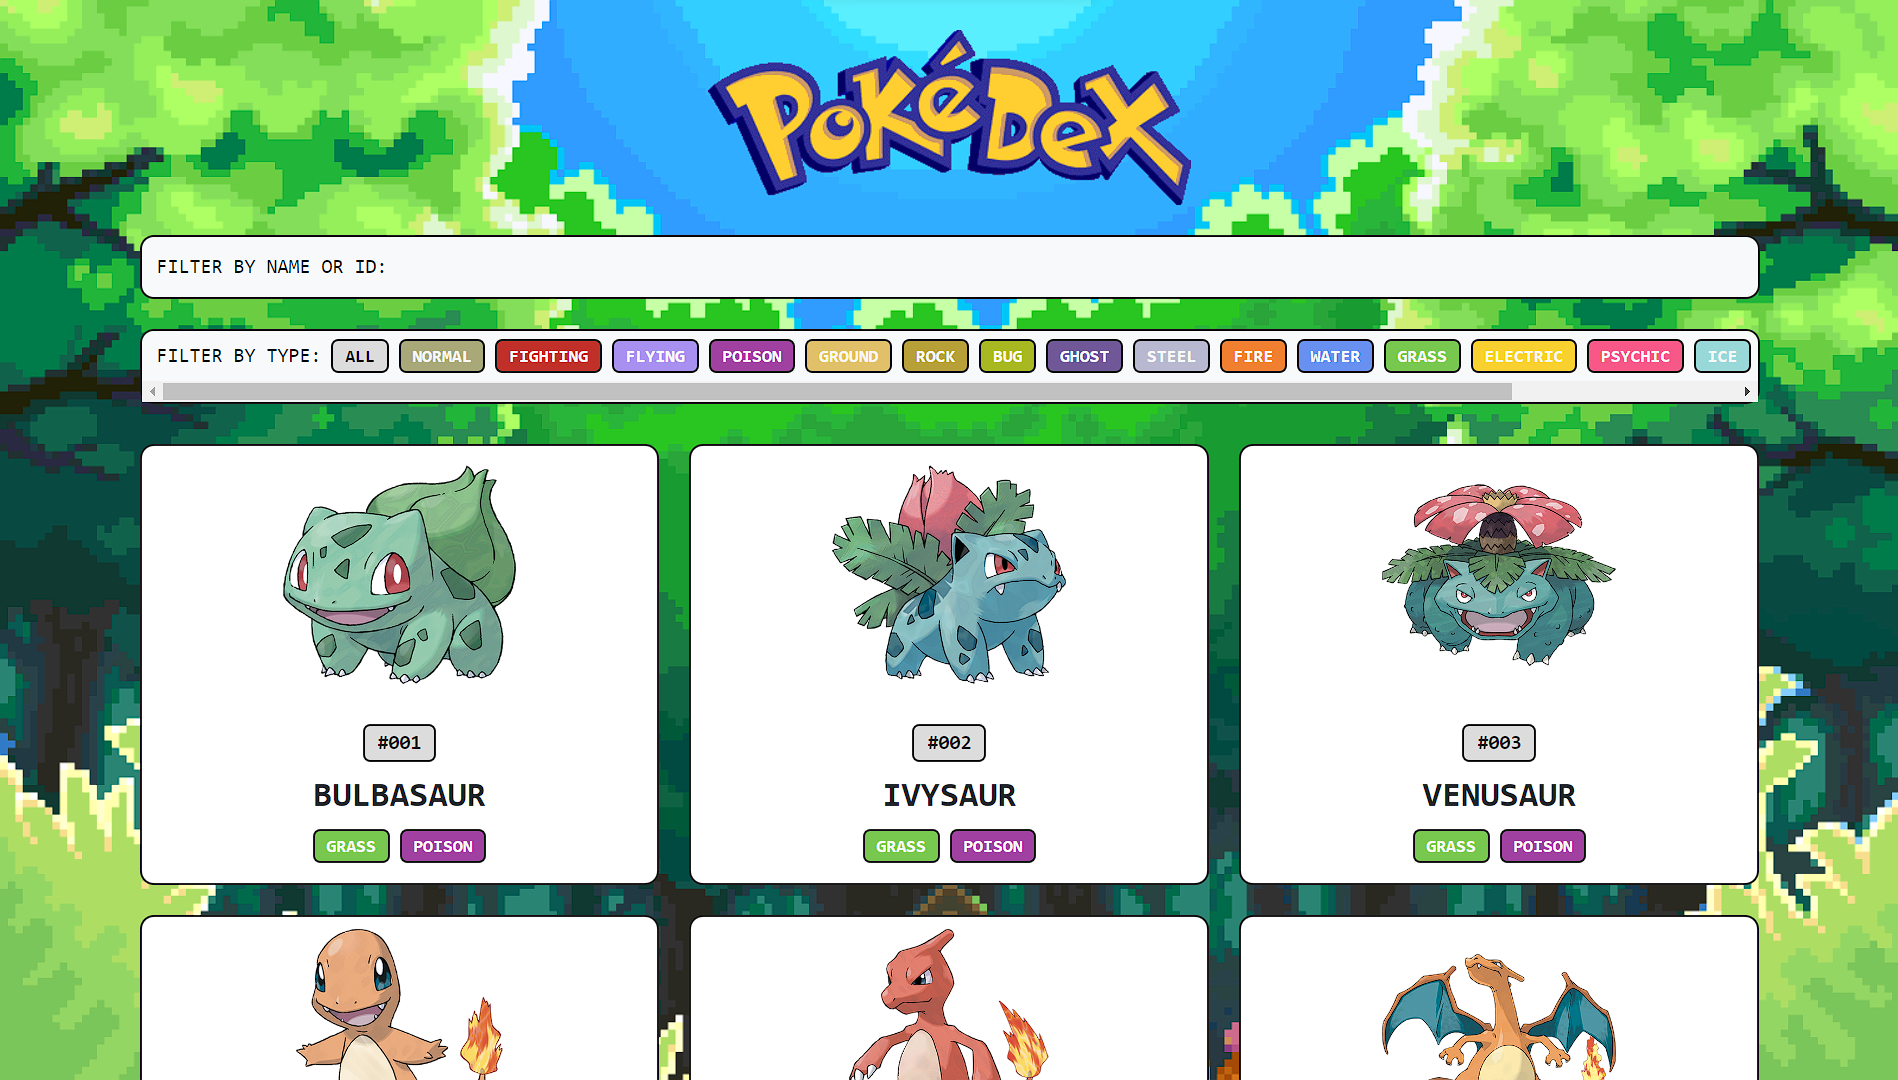
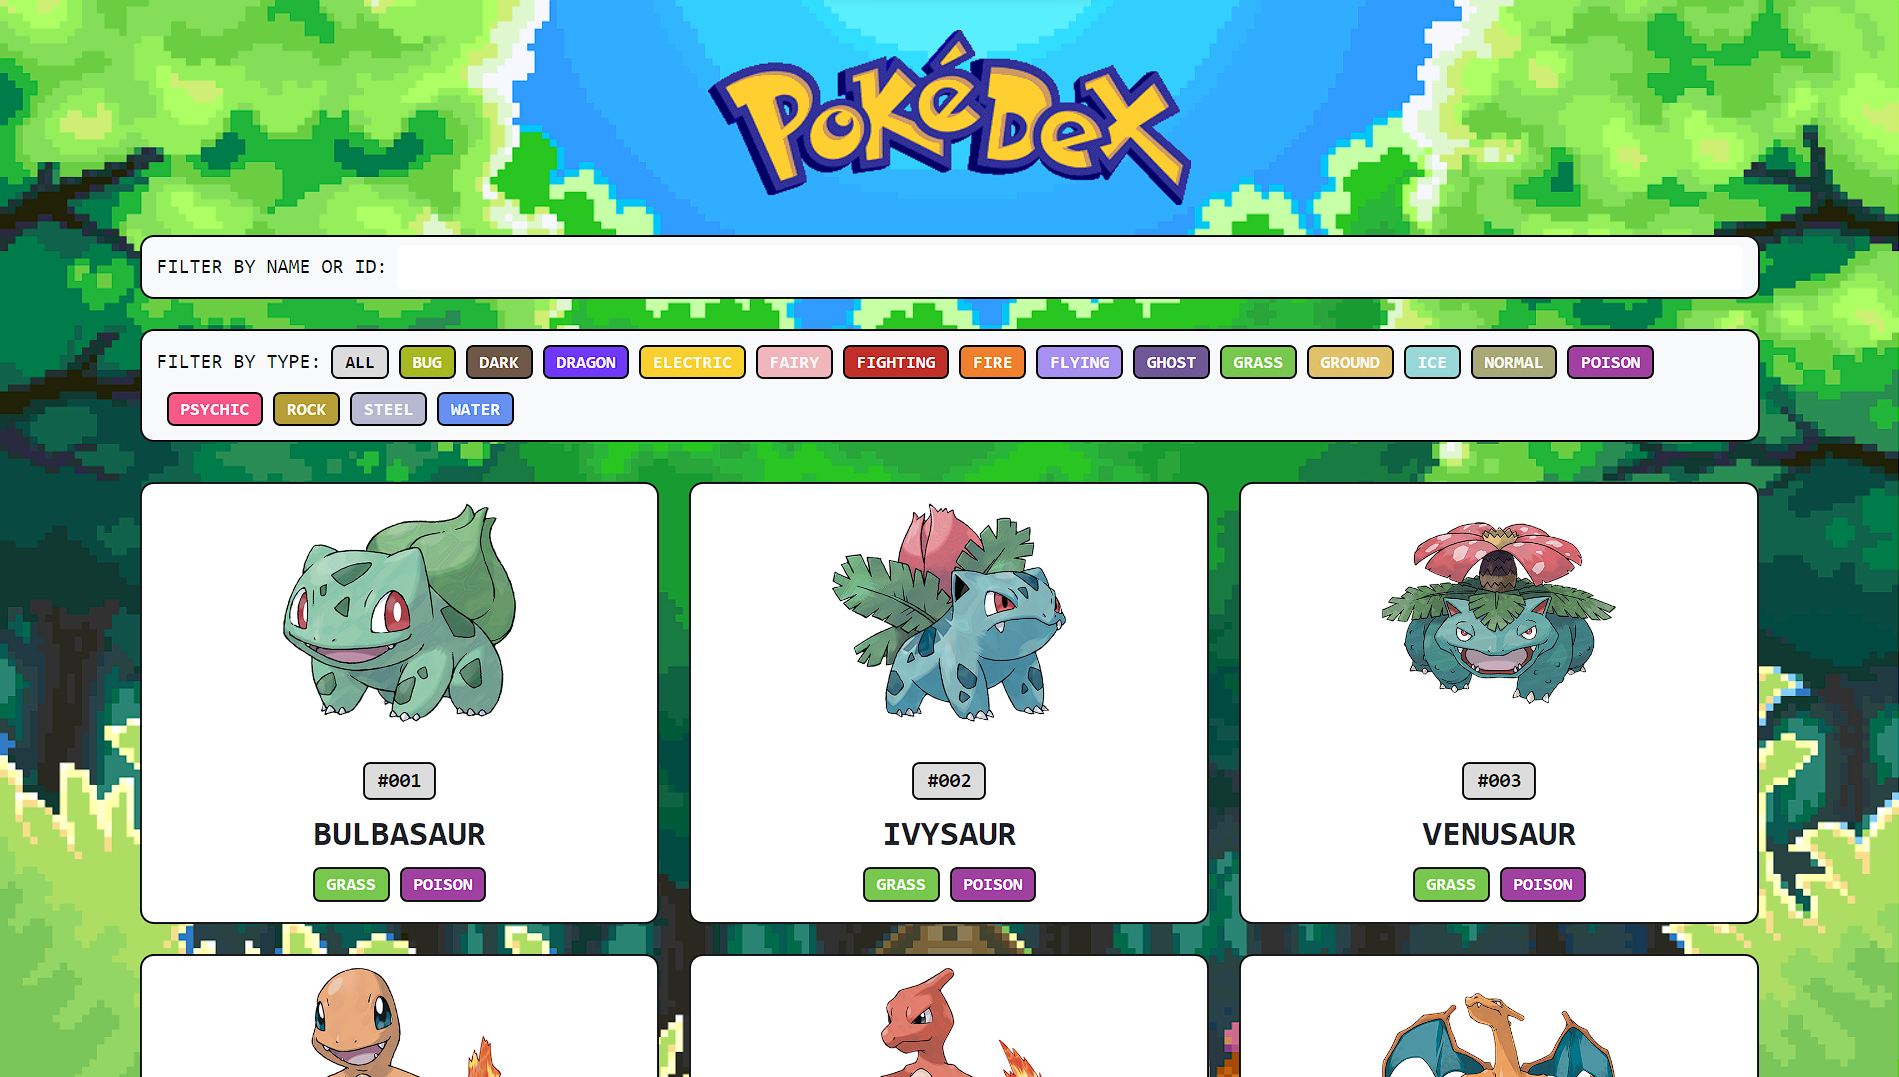
Update Pokedex

diff --git a/index.html b/index.html
@@ -22,37 +22,28 @@
                 </label>
             </div>
             <div class="col-md-12 mb-4">
-                <label class="input-group-text pokemon-form" for="typeFilter" id="typeFilter">Filter by type:
+                <label class="input-group-text pokemon-form d-flex flex-wrap" for="typeFilter" id="typeFilter">Filter by type:
                     <span type="button" class="filter-badge badge all ms-2" data-type="all" onclick="filterByType('all')">All</span>
-                    <span type="button" class="filter-badge badge normal ms-2" data-type="normal" onclick="filterByType('normal')">Normal</span>
-                    <span type="button" class="filter-badge badge fighting ms-2" data-type="fighting" onclick="filterByType('fighting')">Fighting</span>
-                    <span type="button" class="filter-badge badge flying ms-2" data-type="flying" onclick="filterByType('flying')">Flying</span>
-                    <span type="button" class="filter-badge badge poison ms-2" data-type="poison" onclick="filterByType('poison')">Poison</span>
-                    <span type="button" class="filter-badge badge ground ms-2" data-type="ground" onclick="filterByType('ground')">Ground</span>
-                    <span type="button" class="filter-badge badge rock ms-2" data-type="rock" onclick="filterByType('rock')">Rock</span>
                     <span type="button" class="filter-badge badge bug ms-2" data-type="bug" onclick="filterByType('bug')">Bug</span>
-                    <span type="button" class="filter-badge badge ghost ms-2" data-type="ghost" onclick="filterByType('ghost')">Ghost</span>
-                    <span type="button" class="filter-badge badge steel ms-2" data-type="steel" onclick="filterByType('steel')">Steel</span>
-                    <span type="button" class="filter-badge badge fire ms-2" data-type="fire" onclick="filterByType('fire')">Fire</span>
-                    <span type="button" class="filter-badge badge water ms-2" data-type="water" onclick="filterByType('water')">Water</span>
-                    <span type="button" class="filter-badge badge grass ms-2" data-type="grass" onclick="filterByType('grass')">Grass</span>
-                    <span type="button" class="filter-badge badge electric ms-2" data-type="electric" onclick="filterByType('electric')">Electric</span>
-                    <span type="button" class="filter-badge badge psychic ms-2" data-type="psychic" onclick="filterByType('psychic')">Psychic</span>
-                    <span type="button" class="filter-badge badge ice ms-2" data-type="ice" onclick="filterByType('ice')">Ice</span>
-                    <span type="button" class="filter-badge badge dragon ms-2" data-type="dragon" onclick="filterByType('dragon')">Dragon</span>
                     <span type="button" class="filter-badge badge dark ms-2" data-type="dark" onclick="filterByType('dark')">Dark</span>
+                    <span type="button" class="filter-badge badge dragon ms-2" data-type="dragon" onclick="filterByType('dragon')">Dragon</span>
+                    <span type="button" class="filter-badge badge electric ms-2" data-type="electric" onclick="filterByType('electric')">Electric</span>
                     <span type="button" class="filter-badge badge fairy ms-2" data-type="fairy" onclick="filterByType('fairy')">Fairy</span>
+                    <span type="button" class="filter-badge badge fighting ms-2" data-type="fighting" onclick="filterByType('fighting')">Fighting</span>
+                    <span type="button" class="filter-badge badge fire ms-2" data-type="fire" onclick="filterByType('fire')">Fire</span>
+                    <span type="button" class="filter-badge badge flying ms-2" data-type="flying" onclick="filterByType('flying')">Flying</span>
+                    <span type="button" class="filter-badge badge ghost ms-2" data-type="ghost" onclick="filterByType('ghost')">Ghost</span>
+                    <span type="button" class="filter-badge badge grass ms-2" data-type="grass" onclick="filterByType('grass')">Grass</span>
+                    <span type="button" class="filter-badge badge ground ms-2" data-type="ground" onclick="filterByType('ground')">Ground</span>
+                    <span type="button" class="filter-badge badge ice ms-2" data-type="ice" onclick="filterByType('ice')">Ice</span>
+                    <span type="button" class="filter-badge badge normal ms-2" data-type="normal" onclick="filterByType('normal')">Normal</span>
+                    <span type="button" class="filter-badge badge poison ms-2" data-type="poison" onclick="filterByType('poison')">Poison</span>
+                    <span type="button" class="filter-badge badge psychic ms-2" data-type="psychic" onclick="filterByType('psychic')">Psychic</span>
+                    <span type="button" class="filter-badge badge rock ms-2" data-type="rock" onclick="filterByType('rock')">Rock</span>
+                    <span type="button" class="filter-badge badge steel ms-2" data-type="steel" onclick="filterByType('steel')">Steel</span>
+                    <span type="button" class="filter-badge badge water ms-2" data-type="water" onclick="filterByType('water')">Water</span>
                 </label>
             </div>
-        </div>
-    </div>
-    <div class="text-center spinner-center" id="loadingSpinner">
-        <div class="spinner-border spinner-page" role="status"></div>
-        <div class="spinner-title">Loading...</div>
-    </div>
-    <div class="container mt-2">
-        <div class="row" id="listPokemon">
-            <!-- Pokemon elements will be added here -->
         </div>
     </div>
     <div class="modal fade modal-background" id="pokemonModal" tabindex="-1" aria-labelledby="pokemonModalLabel" aria-hidden="true" data-bs-backdrop="static" data-bs-keyboard="false">
@@ -67,12 +58,17 @@
             </div>
         </div>
     </div>    
+    <div class="container mt-2">
+        <div class="row" id="listPokemon">
+            <!-- Pokemon elements will be added here -->
+        </div>
+    </div>
     <div class="container" id="messageId">
         <!-- Pokemon alert will be added here -->
     </div>
     <div class="container mb-4">
-        <button class="btn-pages badge d-none" id="previousPage" onclick="goToPreviousPage()">Previous</button>
-        <button class="btn-pages badge d-none" id="nextPage" onclick="goToNextPage()">Next</button>
+        <button class="btn-pages badge" id="previousPage" onclick="goToPreviousPage()">Previous</button>
+        <button class="btn-pages badge" id="nextPage" onclick="goToNextPage()">Next</button>
     </div>  
     <script src="js/script.js"></script>
 </body>

diff --git a/js/script.js b/js/script.js
@@ -1,5 +1,10 @@
 const API_BASE_URL = 'https://pokeapi.co/api/v2/';
+const POKEMON_PER_PAGE = 21;
 const ALL_POKEMON_DATA = [];
+
+let currentPage = 1;
+let totalPages = 0;
+let typeFilterActive = 'all';
 
 const listPokemon = document.getElementById('listPokemon');
 const filterInput = document.getElementById('filterInput');
@@ -8,8 +13,6 @@ const messageResult = document.getElementById('messageId');
 const previousPageButton = document.getElementById('previousPage');
 const nextPageButton = document.getElementById('nextPage');
 const modalBody = document.getElementById('modalBody');
-
-let typeFilterActive = 'all';
 
 async function getAllPokemon() {
     const response = await fetch(`${API_BASE_URL}pokemon`);
@@ -20,15 +23,6 @@ async function getAllPokemon() {
 async function getPokemonById(pokemonId) {
     const response = await fetch(`${API_BASE_URL}pokemon/${pokemonId}`);
     return response.json();
-}
-
-async function getAllPokemonData() {
-    const totalPokemonCount = await getAllPokemon();
-
-    for (let i = 1; i <= Math.min(totalPokemonCount, 1010); i++) {
-        const pokemonData = await getPokemonById(i);
-        ALL_POKEMON_DATA.push(pokemonData);
-    }
 }
 
 async function getEvolutions(pokemonSpeciesUrl) {
@@ -66,14 +60,24 @@ async function getEvolutions(pokemonSpeciesUrl) {
     }
 }
 
-async function getPokemonForPage() {
+async function getPokemonForPage(page) {
     listPokemon.innerHTML = '';
 
-    for (let i = 0; i < ALL_POKEMON_DATA.length; i++) {
-        const pokemonData = ALL_POKEMON_DATA[i];
-        createPokemonCard(pokemonData);
+    const startIndex = (page - 1) * POKEMON_PER_PAGE;
+    const endIndex = startIndex + POKEMON_PER_PAGE;
+
+    for (let i = startIndex; i < endIndex; i++) {
+        if (i < ALL_POKEMON_DATA.length) {
+            const pokemonData = ALL_POKEMON_DATA[i];
+            createPokemonCard(pokemonData);
+        } else {
+            const pokemonId = i + 1;
+            const pokemonData = await getPokemonById(pokemonId);
+            ALL_POKEMON_DATA.push(pokemonData);
+            createPokemonCard(pokemonData);
+        }
     }
-}
+} 
 
 function createPokemonCard(pokemon) {
     const types = pokemon.types.map(type => `<span class="badge ${type.type.name}">${type.type.name}</span>`).join('');
@@ -299,39 +303,21 @@ function goToPage(page) {
 
 function goToPreviousPage() {
     if (currentPage > 1) {
-        const loadingSpinner = document.getElementById('loadingSpinner');
-        loadingSpinner.classList.remove('d-none');
-
-        currentPage--;
-        getPokemonForPage(currentPage);
-
-        loadingSpinner.classList.add('d-none');
+        goToPage(currentPage - 1);
     }
 }
 
 function goToNextPage() {
     if (currentPage < totalPages) {
-        const loadingSpinner = document.getElementById('loadingSpinner');
-        loadingSpinner.classList.remove('d-none');
-
-        currentPage++;
-        getPokemonForPage(currentPage);
-
-        loadingSpinner.classList.add('d-none');
+        goToPage(currentPage + 1);
     }
 }
 
 async function initApp() {
-    const loadingSpinner = document.getElementById('loadingSpinner');
+    const totalPokemonCount = await getAllPokemon();
+    totalPages = Math.ceil(totalPokemonCount / POKEMON_PER_PAGE);
 
-    loadingSpinner.classList.remove('d-none');
-
-    await getAllPokemonData();
-
-    await getPokemonForPage();
-
-    loadingSpinner.classList.add('d-none');
-
+    await getPokemonForPage(currentPage);
     filterInput.addEventListener('input', filterByPokemon);
     typeFilter.addEventListener('change', filterByPokemon);
 }

diff --git a/css/style.css b/css/style.css
@@ -25,6 +25,7 @@ body {
 .filter-badge {
     font-size: 0.9rem;
     display: inline-block;
+    margin: 5px 0px 5px;
 }
 
 .pokedex-image {
@@ -221,8 +222,9 @@ body {
 }
 
 .no-evolutions {
-    color: #C03028;
+    font-style: italic;
     font-weight: bold;
+    color: #C03028;
     margin: 0px 0px 10px;
 }
 
@@ -253,26 +255,6 @@ body {
     font-weight: bold;
     justify-content: center;
     margin: 0;
-}
-
-.spinner-center {
-   margin: 100px 0px 0px;
-}
-
-.spinner-page {
-    width: 3.5rem;
-    height: 3.5rem;
-    color: #F7F7F7;
-}
-
-.spinner-title {
-    color: #F7F7F7;
-    font-size: 30px;
-    font-weight: bold;
-}
-
-.space-bottom {
-    margin: 0px 0px 10px;
 }
 
 .stats-table {
